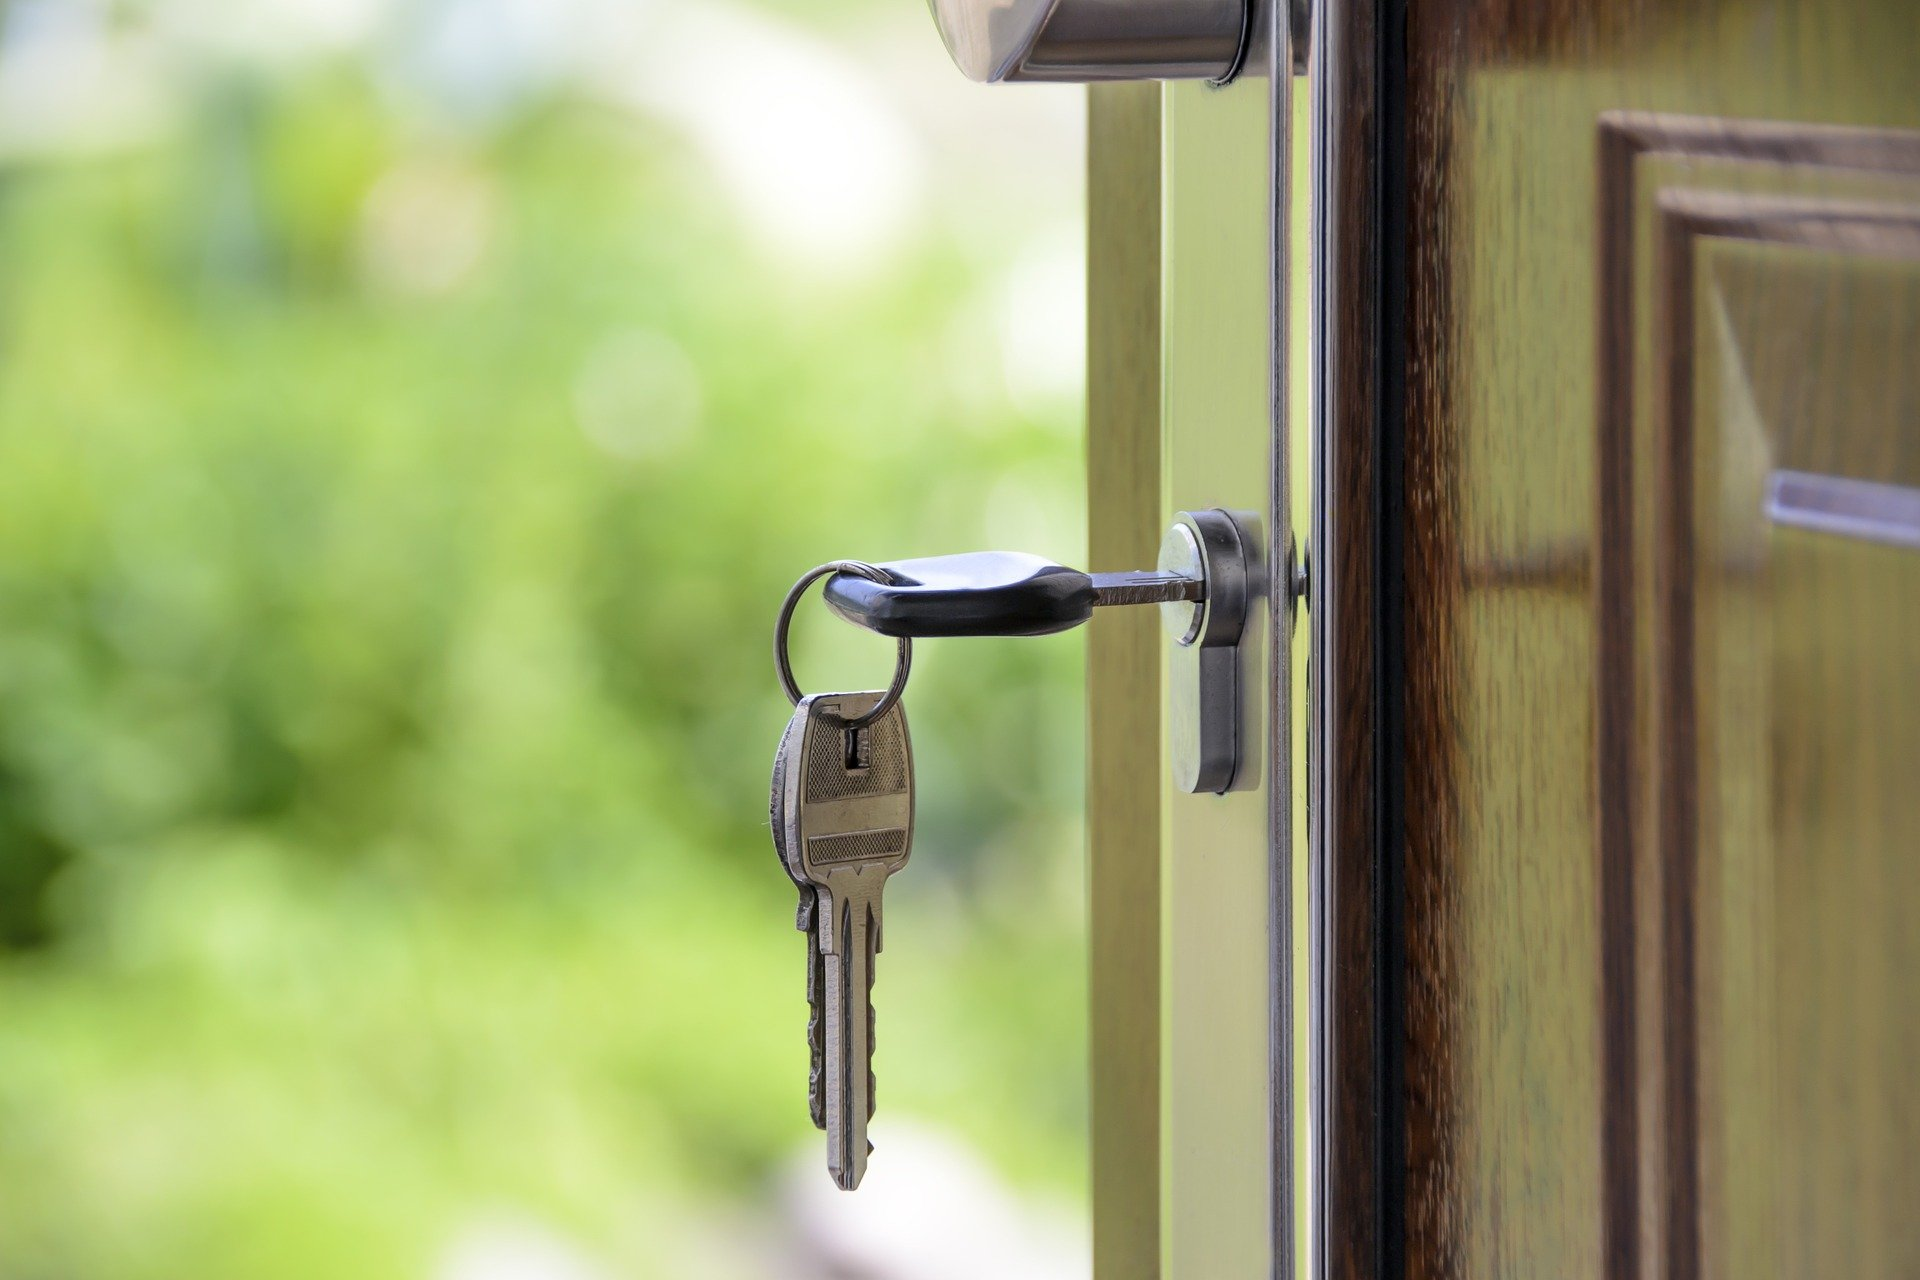
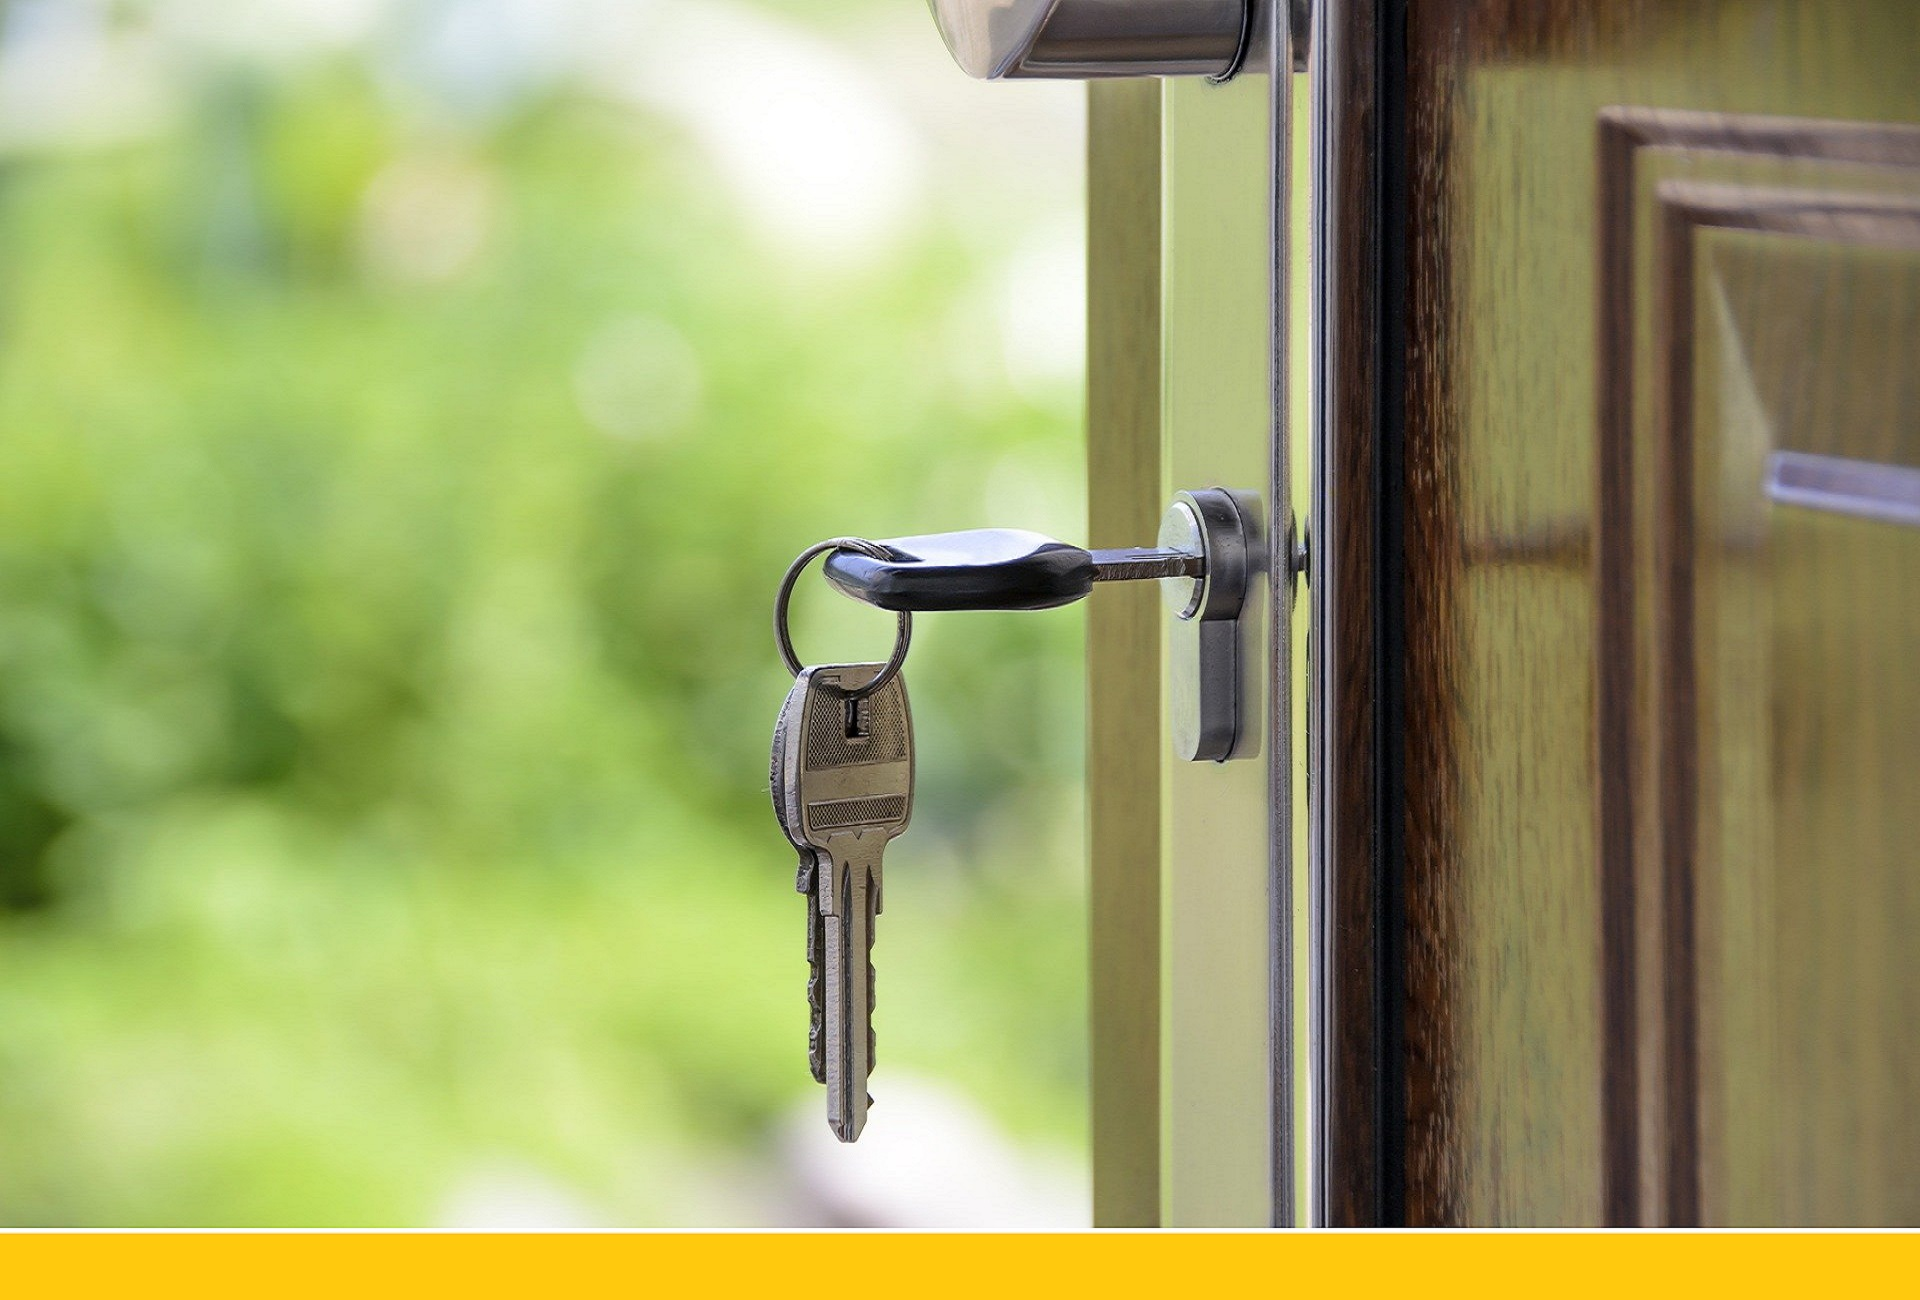
animate

diff --git a/components/Apropos.vue b/components/Apropos.vue
@@ -8,16 +8,21 @@
      <div class="container mt-5">
       <div class="row">
         <div class="col-md-12">
+        <div class="naiss">
           <h5 class="titre mt-4">Naissance</h5>
           <p class="mt-4">Home_CI est une platforme en ligne qui vous facilite la recherche immobilière. Elle est une initiative et une Conception d'un jeune etudiant ivoirien, qui inscrit son action, dans le cadre de la facilitation de la recherches immobilières. <i>"En effet, après avoir constaté l'enorme Souffrance qu'endure les populations ivoirienne, du faite des tracaseries liées à la recherche immobilière, j'ai decide de mettre à sa disposition cette platforme en vue de facilité ces operations.",</i> écrivit le Jeune KOBENA sur son <a href="#">blog</a>.</p>
+        </div>  
           <div class="mt-4">
+          <div class="servi">
           <h5 class="titre">services</h5>
            <div class="row text-center">
-            <div class="col-sm-6"><h6 class="titre mt-4">location</h6><p>Il s'agit du service qui consiste a mettre a votre disposition un ensemble d'offres de location de biens immobilier (maisons, magasins) parmi lesquels vous serez amenés a faire un choix</p></div>
-            <div class="col-sm-6"><h6 class="titre mt-4">vente</h6><p>Pour ce service-ci, Il s'agit de vous proposez un ensemble d'offres de vente de biens immobilier (maisons, terrains ,...) pour lesquels vous effecturez un choix en fonction de vos goûts et desirs</p></div>
+            <div class="col-sm-6" id="para1"><h6 class="titre mt-4">location</h6><p>Il s'agit du service qui consiste a mettre a votre disposition un ensemble d'offres de location de biens immobilier (maisons, magasins) parmi lesquels vous serez amenés a faire un choix</p></div>
+            <div class="col-sm-6" id="para2"><h6 class="titre mt-4">vente</h6><p>Pour ce service-ci, Il s'agit de vous proposez un ensemble d'offres de vente de biens immobilier (maisons, terrains ,...) pour lesquels vous effecturez un choix en fonction de vos goûts et desirs</p></div>
            </div>
+           </div>
+           <div class="etape">
            <h5 class="titre mt-4">etapes a suivre pour beneficier de l'integralité de nos services</h5>
-             <div class="row mt-4 text-center">
+             <div class="row mt-4 text-center items">
                 <div class="col-md-3 mt-3">
                   <h4 class="centrer color"><strong>.01</strong></h4>
                   <p  class="centrer">Connecter-vous pour avoir acces a tous notre contenu</p>
@@ -35,26 +40,35 @@
                   <p  class="centrer">L'agent prestataire, vous contactera pour finaliser la procedure.</p>
                 </div>
               </div>
+              </div>
+              <div class="agent">
               <h5 class="titre mt-4">Nos agents prestataires</h5>
               <div class="row mt-5">
                 <div class="col-sm-4 text-center">
-                <img src="/images/team2.jpg" class="img-fluid rounded-circle test">
+                <img src="/images/team2.jpg" id="image" class="img-fluid rounded-circle test">
+                <div class="info">
                   <h5 class="mt-3">M.Kobena Kouame lucien</h5>
                   <p>Informaticien et premier Responsable d'agence</p>
                   <p><i>kouame.kobena@uvci.edu.ci</i></p>
                 </div>
+                </div>
                 <div class="col-sm-4 text-center">
-                <img src="/images/team1.jpg" class="img-fluid rounded-circle test" >
+                <img src="/images/team1.jpg" id="image" class="img-fluid rounded-circle test" >
+                <div class="info">
                   <h5 class="mt-3">M.Gonye bah Cheick</h5>
                   <p>Archiviste et agent prestataire</p>
                   <p><i>kouame.kobena@uvci.edu.ci</i></p>
                 </div>
+                </div>
                 <div class="col-sm-4 text-center">
-                <img src="/images/team3.jpg" class="img-fluid rounded-circle test" >
+                <img src="/images/team3.jpg" id="image" class="img-fluid rounded-circle test" >
+                <div class="info">
                   <h5 class="mt-3">M.Gnanguy Cephas Metuschelah</h5>
                   <p>comptable et agent prestataire</p>
                   <p><i>kouame.kobena@uvci.edu.ci</i></p>
                 </div>
+                </div>
+              </div>
               </div>
               <br>
           </div>
@@ -84,8 +98,10 @@ color:orange;
     box-shadow: 10px 10px orange;
     margin-top:-3px;
 }
+
 .tout{
   font-family:'times', sans-serif;
   font-size:1.1rem;
+  overflow-x:hidden;
 }
 </style>

diff --git a/components/Contact.vue b/components/Contact.vue
@@ -5,9 +5,10 @@
                 </div>
             </div>
 		<div class="container mt-5">
-		<h3 class="titre">Contact</h3>
-			<div class="row">
+		  <div class="row">
 				<div class="col-md-8">
+				<div class="contact">
+					<h3 class="titre">Contact</h3>
 					<form action="#">
 						<div class="row form-group">
 							<div class="col-md-6">
@@ -44,11 +45,11 @@
 						<div class="form-group">
 							<input type="submit" value="Envoyer" class="btn btn-warning">
 						</div>
-
-					</form>		
+					</form>	
+					</div>	
 				</div>
 				<div class="col-md-4">
-					<div class="mt-3">
+					<div class="mt-3 infocontac">
 						<h6 class="titre">Nos contacts</h6>
 						<div class="row">
 						 <div class="col-xl-12 col-sm-4">tel: +2250748608703</div>
@@ -60,7 +61,6 @@
 
 				</div>
 			</div>
-			
 		</div>
 	</div>
 </template>

diff --git a/components/Accueil.vue b/components/Accueil.vue
@@ -1,6 +1,7 @@
 <template>
  <div class="tout">
-   <div class="back">
+   <div class="">
+   <img src="/images/cle.jpg" class="img-fluid" >
     <div class="float-end text-center bloc">
         <h2 class="titre">Home_<span class="couleur">CI</span></h2>
         <p>La platforme numéro 1 en côte d'ivoire <br>qui vous facilite <br>la récherche immobilière.</p>
@@ -166,9 +167,10 @@ export default {
   font-family:times, sans-serif;
 }
 .bloc{
-  margin-top:15vw;
+  /*position:absolute;*/
+  margin-top: -38vw;
   color:white;
-  font-size:2vw;
+  font-size:2.8vw;
   padding:1vw;
 }
 .couleur{

diff --git a/static/js/script.js b/static/js/script.js
@@ -96,6 +96,17 @@ const slideFromBottom = (elem, delay, duration)=>{
    slideInTop(".bloc");
    slideInTop("#titre");
    slideFromRigth(".other");
-   slideFromBottom(".marg")
+   slideFromBottom(".marg");
+   slideInTop(".naiss");
+   slideFromBottom(".servi");
+   slideFromLeft("#para1");
+   slideFromRigth("#para2");
+   slideFromLeft(".etape");
+   slideFromBottom(".items");
+   slideFromBottom(".agent");
+   slideFromRigth("#image");
+   slideFromLeft(".info");
+   slideFromLeft(".contact");
+   slideFromRigth(".infocontac");
 
 }
